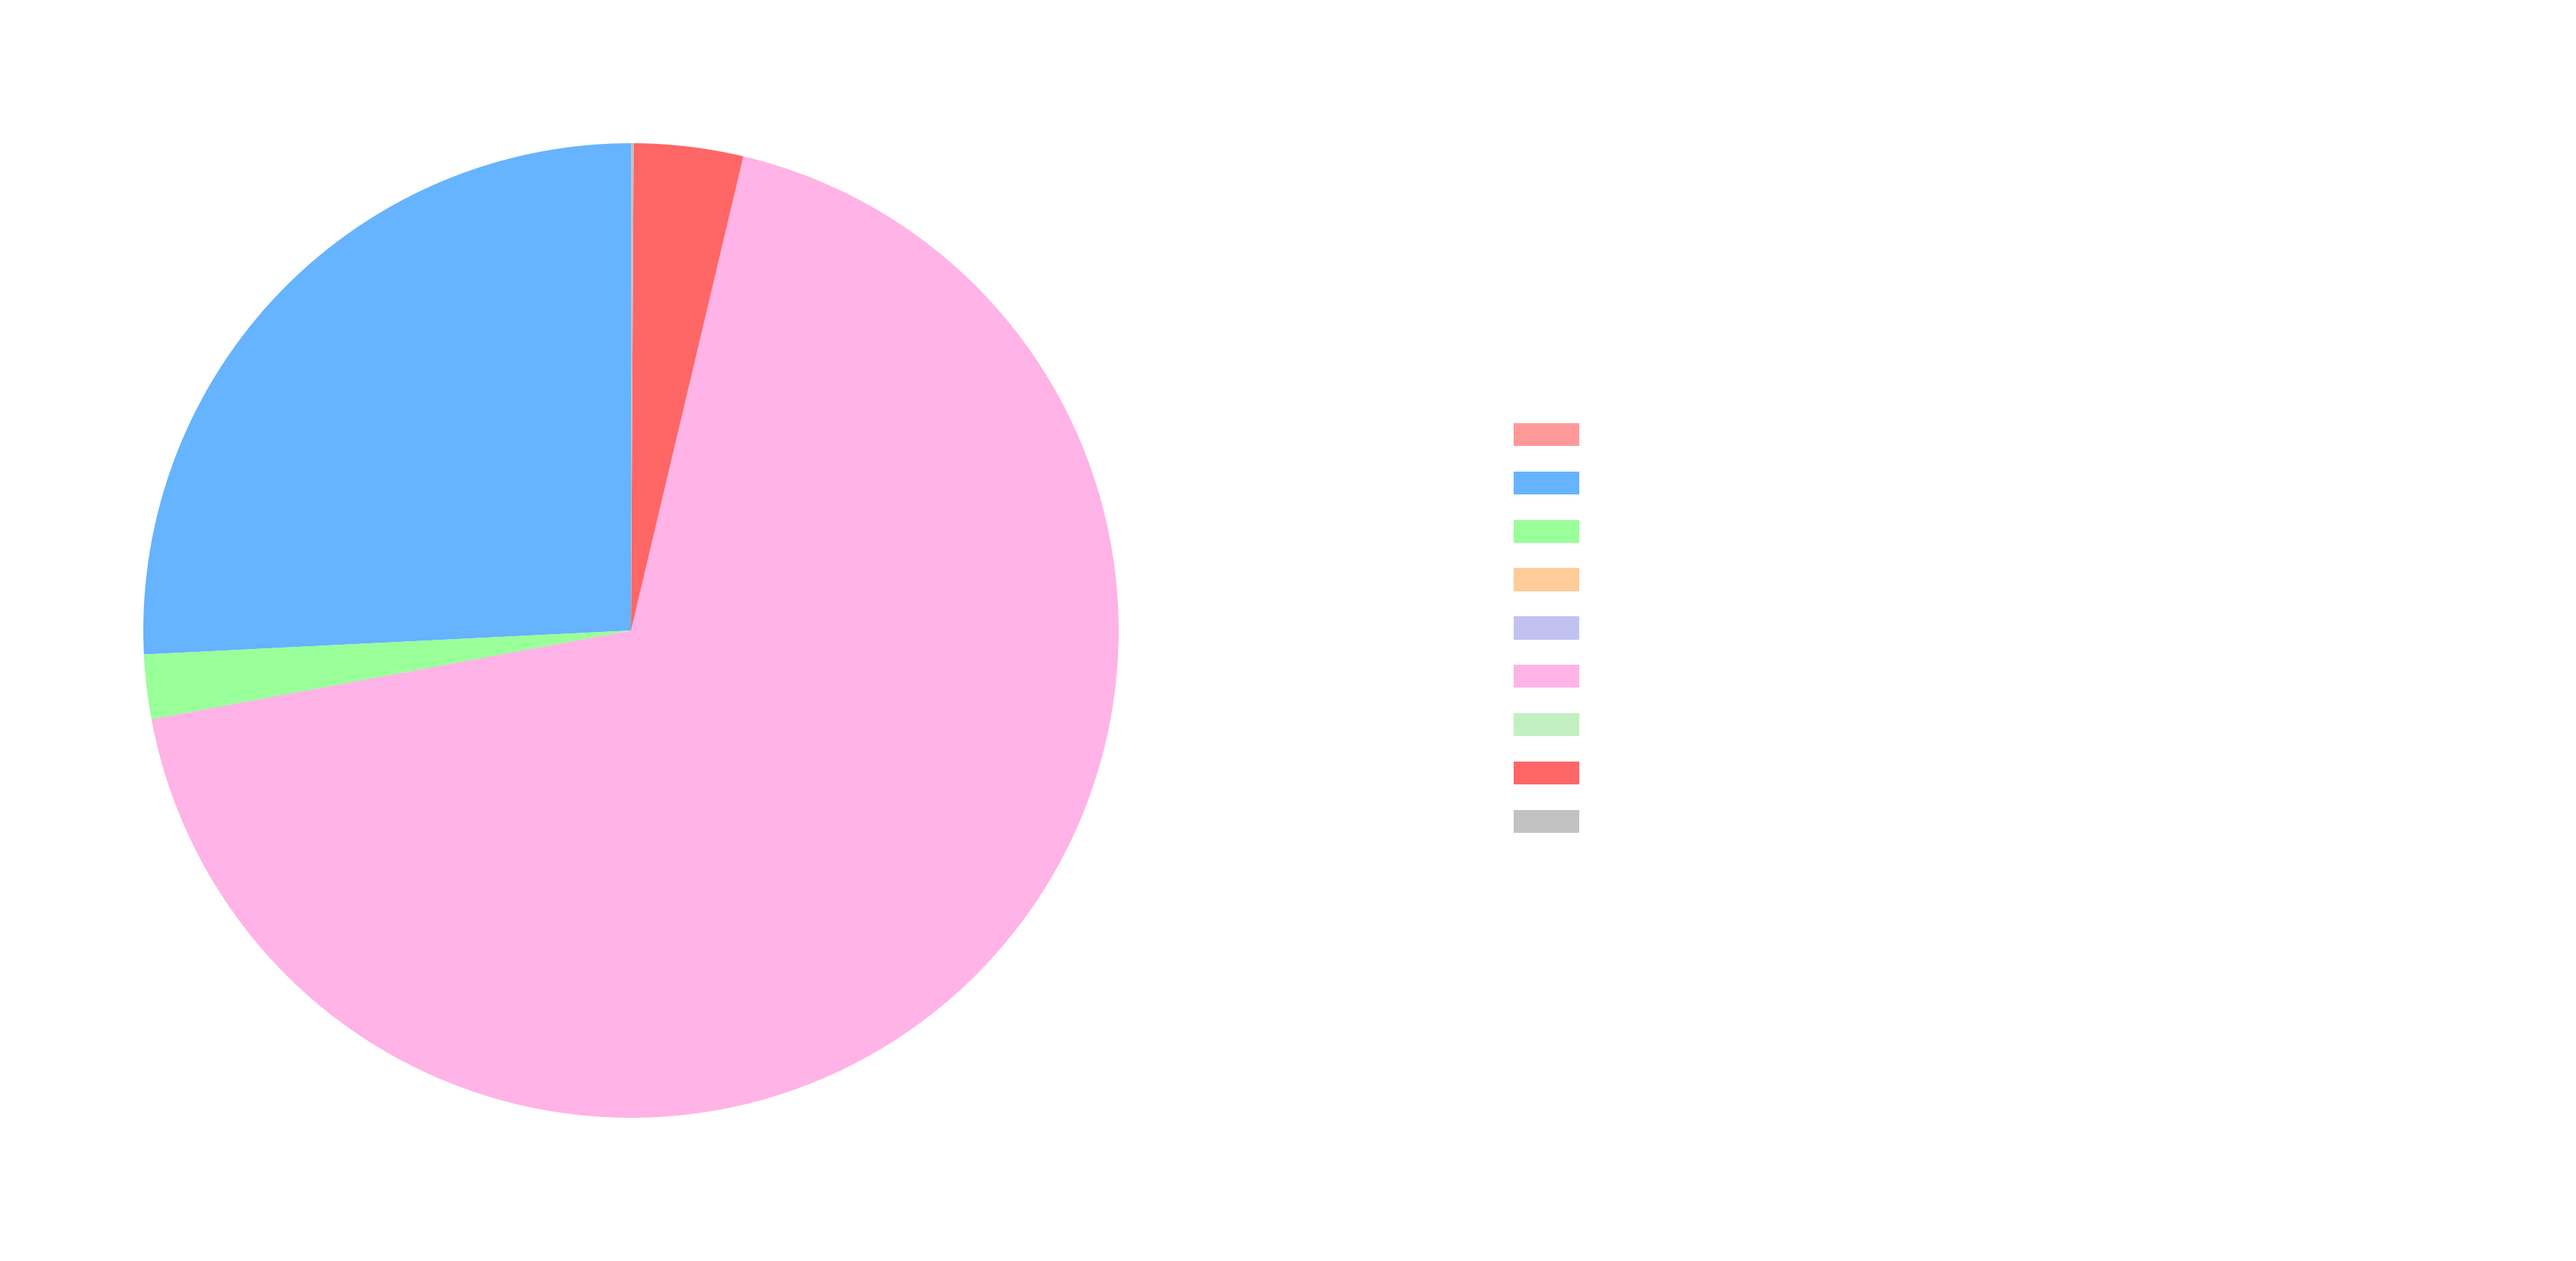
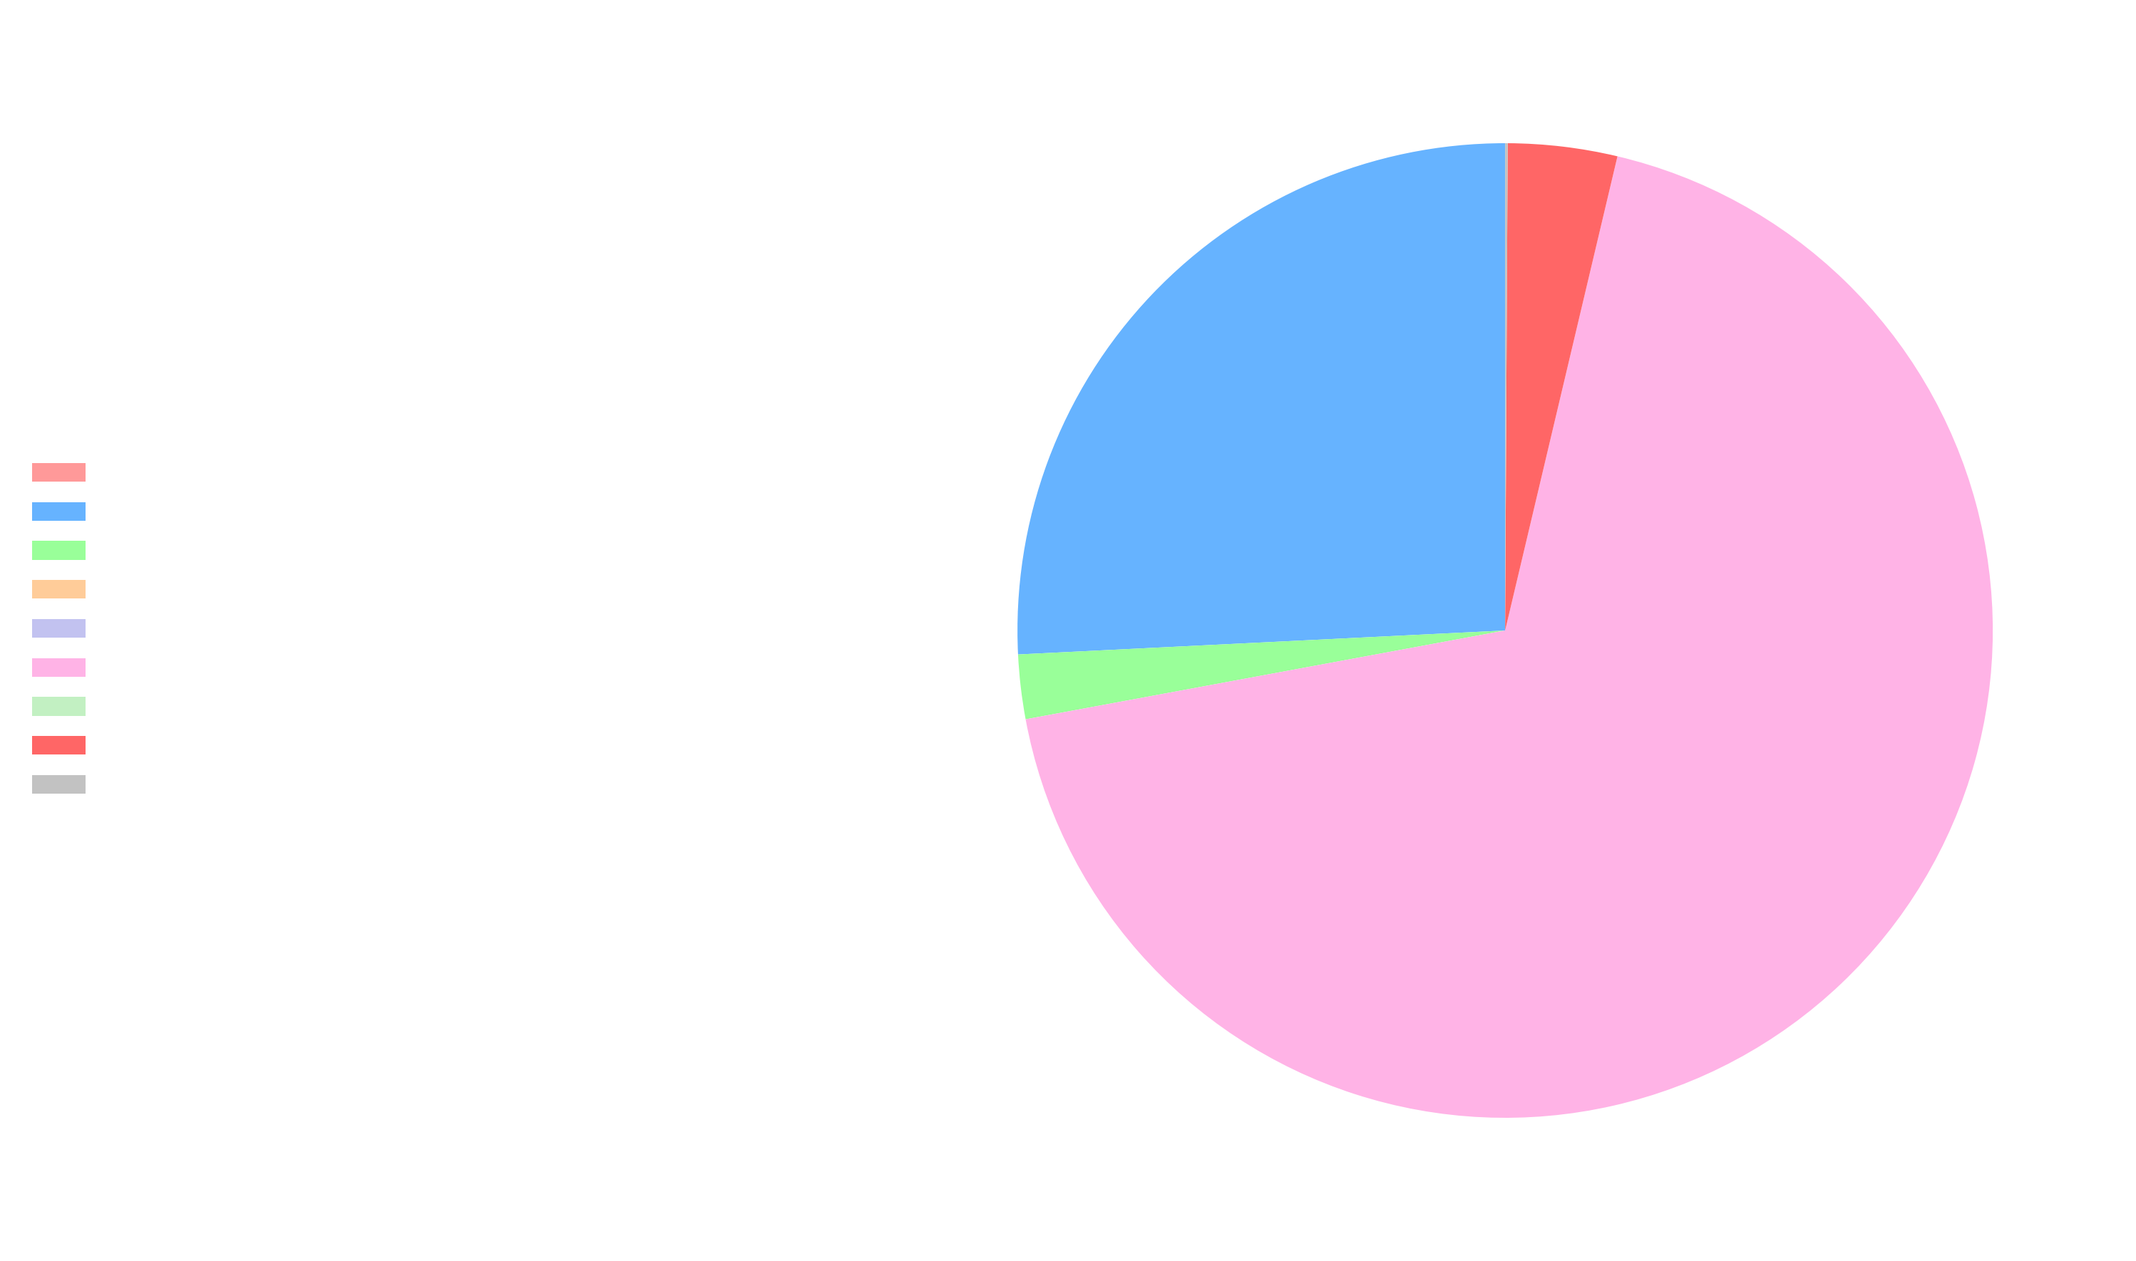
updates

diff --git a/src/manufacturer_advanced_visuals.py b/src/manufacturer_advanced_visuals.py
@@ -15,33 +15,33 @@ aggregated_scores = aggregated_scores[aggregated_scores['Manufacturer'] != 'Tesl
 plots_dir = "manufacturer_advanced_visuals"
 os.makedirs(plots_dir, exist_ok=True)
 
-# 1. **CO2 Reduction Rate Over Time (Bar Graph)**
-for manufacturer in aggregated_scores['Manufacturer'].unique():
-    data = aggregated_scores[aggregated_scores['Manufacturer'] == manufacturer]
-    data = data.sort_values(by='Model Year')
-    data['CO2 Reduction Rate (%)'] = data['Yearly Sustainability Score'].pct_change() * 100
+# # 1. **CO2 Reduction Rate Over Time (Bar Graph)**
+# for manufacturer in aggregated_scores['Manufacturer'].unique():
+#     data = aggregated_scores[aggregated_scores['Manufacturer'] == manufacturer]
+#     data = data.sort_values(by='Model Year')
+#     data['CO2 Reduction Rate (%)'] = data['Yearly Sustainability Score'].pct_change() * 100
 
-    fig, ax = plt.subplots(figsize=(12, 5))
-    ax.bar(
-        data['Model Year'],
-        data['CO2 Reduction Rate (%)'],
-        color='cyan',
-        edgecolor='white'
-    )
-    ax.axhline(y=0, color='gray', linestyle='--', linewidth=0.5)
-    ax.set_facecolor('none')  # Transparent background
-    fig.patch.set_alpha(0)
-    ax.set_xlabel("Year", fontsize=12, color='white')
-    ax.set_ylabel("CO2 Reduction Rate (%)", fontsize=12, color='white')
-    ax.tick_params(axis='x', colors='white', labelsize=10)
-    ax.tick_params(axis='y', colors='white', labelsize=10)
+#     fig, ax = plt.subplots(figsize=(12, 5))
+#     ax.bar(
+#         data['Model Year'],
+#         data['CO2 Reduction Rate (%)'],
+#         color='cyan',
+#         edgecolor='white'
+#     )
+#     ax.axhline(y=0, color='gray', linestyle='--', linewidth=0.5)
+#     ax.set_facecolor('none')  # Transparent background
+#     fig.patch.set_alpha(0)
+#     ax.set_xlabel("Year", fontsize=12, color='white')
+#     ax.set_ylabel("CO2 Reduction Rate (%)", fontsize=12, color='white')
+#     ax.tick_params(axis='x', colors='white', labelsize=10)
+#     ax.tick_params(axis='y', colors='white', labelsize=10)
 
-    # Add y-axis gridlines
-    ax.grid(axis='y', color='gray', linestyle='--', linewidth=0.5, alpha=0.7)  # Transparent gridlines
+#     # Add y-axis gridlines
+#     ax.grid(axis='y', color='gray', linestyle='--', linewidth=0.5, alpha=0.7)  # Transparent gridlines
 
-    plt.tight_layout()
-    fig.savefig(f"{plots_dir}/{manufacturer}_co2_reduction_rate.png", dpi=300, transparent=True, bbox_inches='tight')
-    plt.close(fig)
+#     plt.tight_layout()
+#     fig.savefig(f"{plots_dir}/{manufacturer}_co2_reduction_rate.png", dpi=300, transparent=True, bbox_inches='tight')
+#     plt.close(fig)
 
 # # 2. **MPG Efficiency Growth Rate (Bar Graph)**
 # for manufacturer in aggregated_scores['Manufacturer'].unique():
@@ -198,60 +198,60 @@ powertrain_colors = {
     'Powertrain - Gasoline without Start/Stop': '#c2c2c2',
 }
 
-# # Filter for 2024 data
-# specific_2024 = specific_manufacturers_filtered[specific_manufacturers_filtered['Model Year'] == 2024]
+# Filter for 2024 data
+specific_2024 = specific_manufacturers_filtered[specific_manufacturers_filtered['Model Year'] == 2024]
 
-# for manufacturer in specific_2024['Manufacturer'].unique():
-#     # Filter rows for the specific manufacturer
-#     manufacturer_data = specific_2024[specific_2024['Manufacturer'] == manufacturer]
+for manufacturer in specific_2024['Manufacturer'].unique():
+    # Filter rows for the specific manufacturer
+    manufacturer_data = specific_2024[specific_2024['Manufacturer'] == manufacturer]
 
-#     # Aggregate the powertrain columns by summing
-#     powertrain_distribution = manufacturer_data[powertrain_columns].sum()
+    # Aggregate the powertrain columns by summing
+    powertrain_distribution = manufacturer_data[powertrain_columns].sum()
 
-#     # Normalize the distribution to ensure it sums to 1
-#     powertrain_distribution = powertrain_distribution / powertrain_distribution.sum()
+    # Normalize the distribution to ensure it sums to 1
+    powertrain_distribution = powertrain_distribution / powertrain_distribution.sum()
 
-#     # Generate labels for the legend including percentages
-#     legend_labels = [
-#         f"{category} - {percentage:.1%}"
-#         for category, percentage in zip(powertrain_distribution.index, powertrain_distribution.values)
-#     ]
+    # Generate labels for the legend including percentages
+    legend_labels = [
+        f"{category} - {percentage:.1%}"
+        for category, percentage in zip(powertrain_distribution.index, powertrain_distribution.values)
+    ]
 
-#     # Plot the pie chart
-#     fig, ax = plt.subplots(figsize=(12, 6))  # Adjusted size for aesthetics
-#     wedges, texts = ax.pie(
-#         powertrain_distribution,
-#         colors=[powertrain_colors[col] for col in powertrain_distribution.index],
-#         startangle=90,  # Starts at the top
-#         wedgeprops=dict(width=1.0)  # Full-filled pie
-#     )
+    # Plot the pie chart
+    fig, ax = plt.subplots(figsize=(12, 6))  # Adjusted size for aesthetics
+    wedges, texts = ax.pie(
+        powertrain_distribution,
+        colors=[powertrain_colors[col] for col in powertrain_distribution.index],
+        startangle=90,  # Starts at the top
+        wedgeprops=dict(width=1.0)  # Full-filled pie
+    )
 
-#     # Add legend on the right side of the chart with percentage values
-#     legend_elements = [
-#         Patch(facecolor=powertrain_colors[col], label=label)
-#         for col, label in zip(powertrain_distribution.index, legend_labels)
-#     ]
-#     ax.legend(
-#         handles=legend_elements,
-#         loc='center left',
-#         bbox_to_anchor=(1.2, 0.5),  # Adjusted spacing for bigger legend
-#         frameon=False,
-#         fontsize=11,  # Increased font size by ~15–20%
-#         labelcolor='white',
-#     )
+    # Add legend on the left side of the chart with percentage values
+    legend_elements = [
+        Patch(facecolor=powertrain_colors[col], label=label)
+        for col, label in zip(powertrain_distribution.index, legend_labels)
+    ]
+    ax.legend(
+        handles=legend_elements,
+        loc='center right',
+        bbox_to_anchor=(0.0, 0.5),  # Reduced spacing between pie and legend
+        frameon=False,
+        fontsize=9,  # Reduced font size by ~15%
+        labelcolor='white',
+    )
 
-#     # Remove the title
-#     fig.patch.set_alpha(0)  # Transparent background
-#     ax.set_facecolor('none')  # Transparent face color
+    # Remove the title
+    fig.patch.set_alpha(0)  # Transparent background
+    ax.set_facecolor('none')  # Transparent face color
 
-#     # Save the pie chart
-#     plt.tight_layout()
-#     fig.savefig(
-#         f"{plots_dir}/{manufacturer}_powertrain_pie_chart.png",
-#         dpi=300,
-#         transparent=True,
-#         bbox_inches='tight',
-#     )
-#     plt.close(fig)
+    # Save the pie chart
+    plt.tight_layout()
+    fig.savefig(
+        f"{plots_dir}/{manufacturer}_powertrain_pie_chart.png",
+        dpi=300,
+        transparent=True,
+        bbox_inches='tight',
+    )
+    plt.close(fig)
 
 print("All advanced visuals have been successfully updated.")

diff --git a/pages/1_📊_Manufacturer_Analysis.py b/pages/1_📊_Manufacturer_Analysis.py
@@ -25,7 +25,7 @@ co2_plot_path = f"manufacturer_co2_mpg_plots/{selected_manufacturer}_co2_plot.pn
 mpg_plot_path = f"manufacturer_co2_mpg_plots/{selected_manufacturer}_mpg_plot.png"
 co2_reduction_rate_path = f"manufacturer_advanced_visuals/{selected_manufacturer}_co2_reduction_rate.png"
 mpg_growth_rate_path = f"manufacturer_advanced_visuals/{selected_manufacturer}_mpg_growth_rate.png"
-co2_to_mpg_ratio_path = f"manufacturer_advanced_visuals/{selected_manufacturer}_co2_to_mpg_ratio.png"
+powertrain_pie_chart_path = f"manufacturer_advanced_visuals/{selected_manufacturer}_powertrain_pie_chart.png"
 
 # Header for the analysis of each selected manufacturer
 st.subheader(f"Analysis for {selected_manufacturer}")
@@ -119,6 +119,26 @@ with col1:
         st.image(mpg_growth_rate_path, width=1200)
     else:
         st.error(f"Plot not found: {mpg_growth_rate_path}")
+with col2:
+    st.markdown(
+        """
+        <div>
+            <p style="font-size: 20px; line-height: 2.0;">
+                This graph shows the real-world (not under testing conditions) MPG from the cars of these manufacturers. This gives insights into these cars' efficiency, and how many miles they are going per gallon consumed.
+            </p>
+        </div>
+        """,
+        unsafe_allow_html=True
+    )
+
+# Display powertrain distribution pie chart with description box
+st.subheader("Powertrain Distribution")
+col1, col2 = st.columns([2, 0.8])
+with col1:
+    if os.path.exists(powertrain_pie_chart_path):
+        st.image(powertrain_pie_chart_path, width=1200)
+    else:
+        st.error(f"Plot not found: {powertrain_pie_chart_path}")
 with col2:
     st.markdown(
         """
